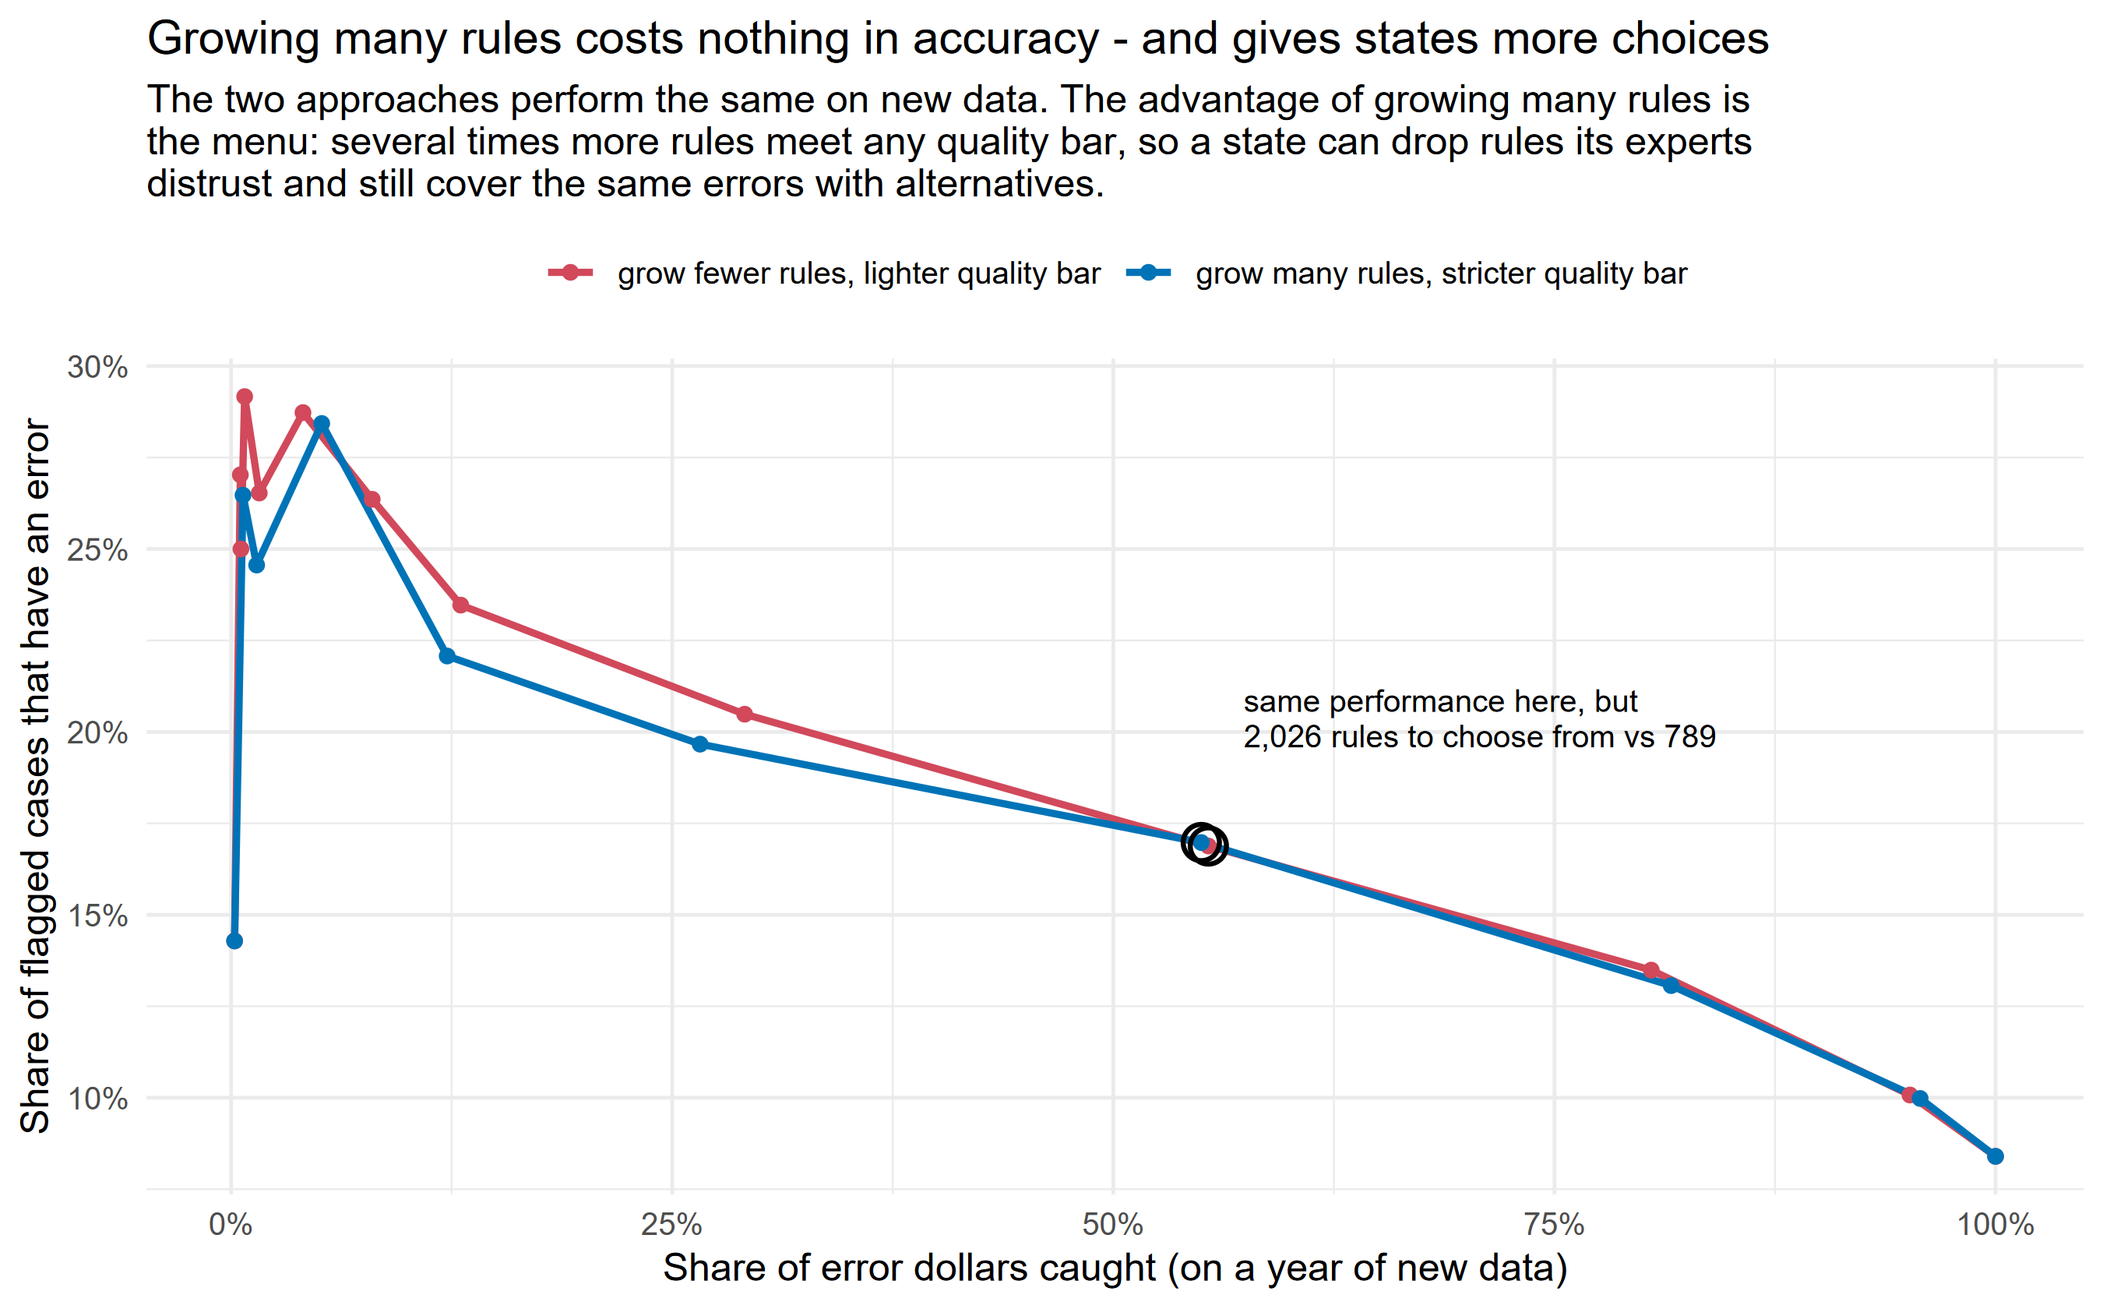
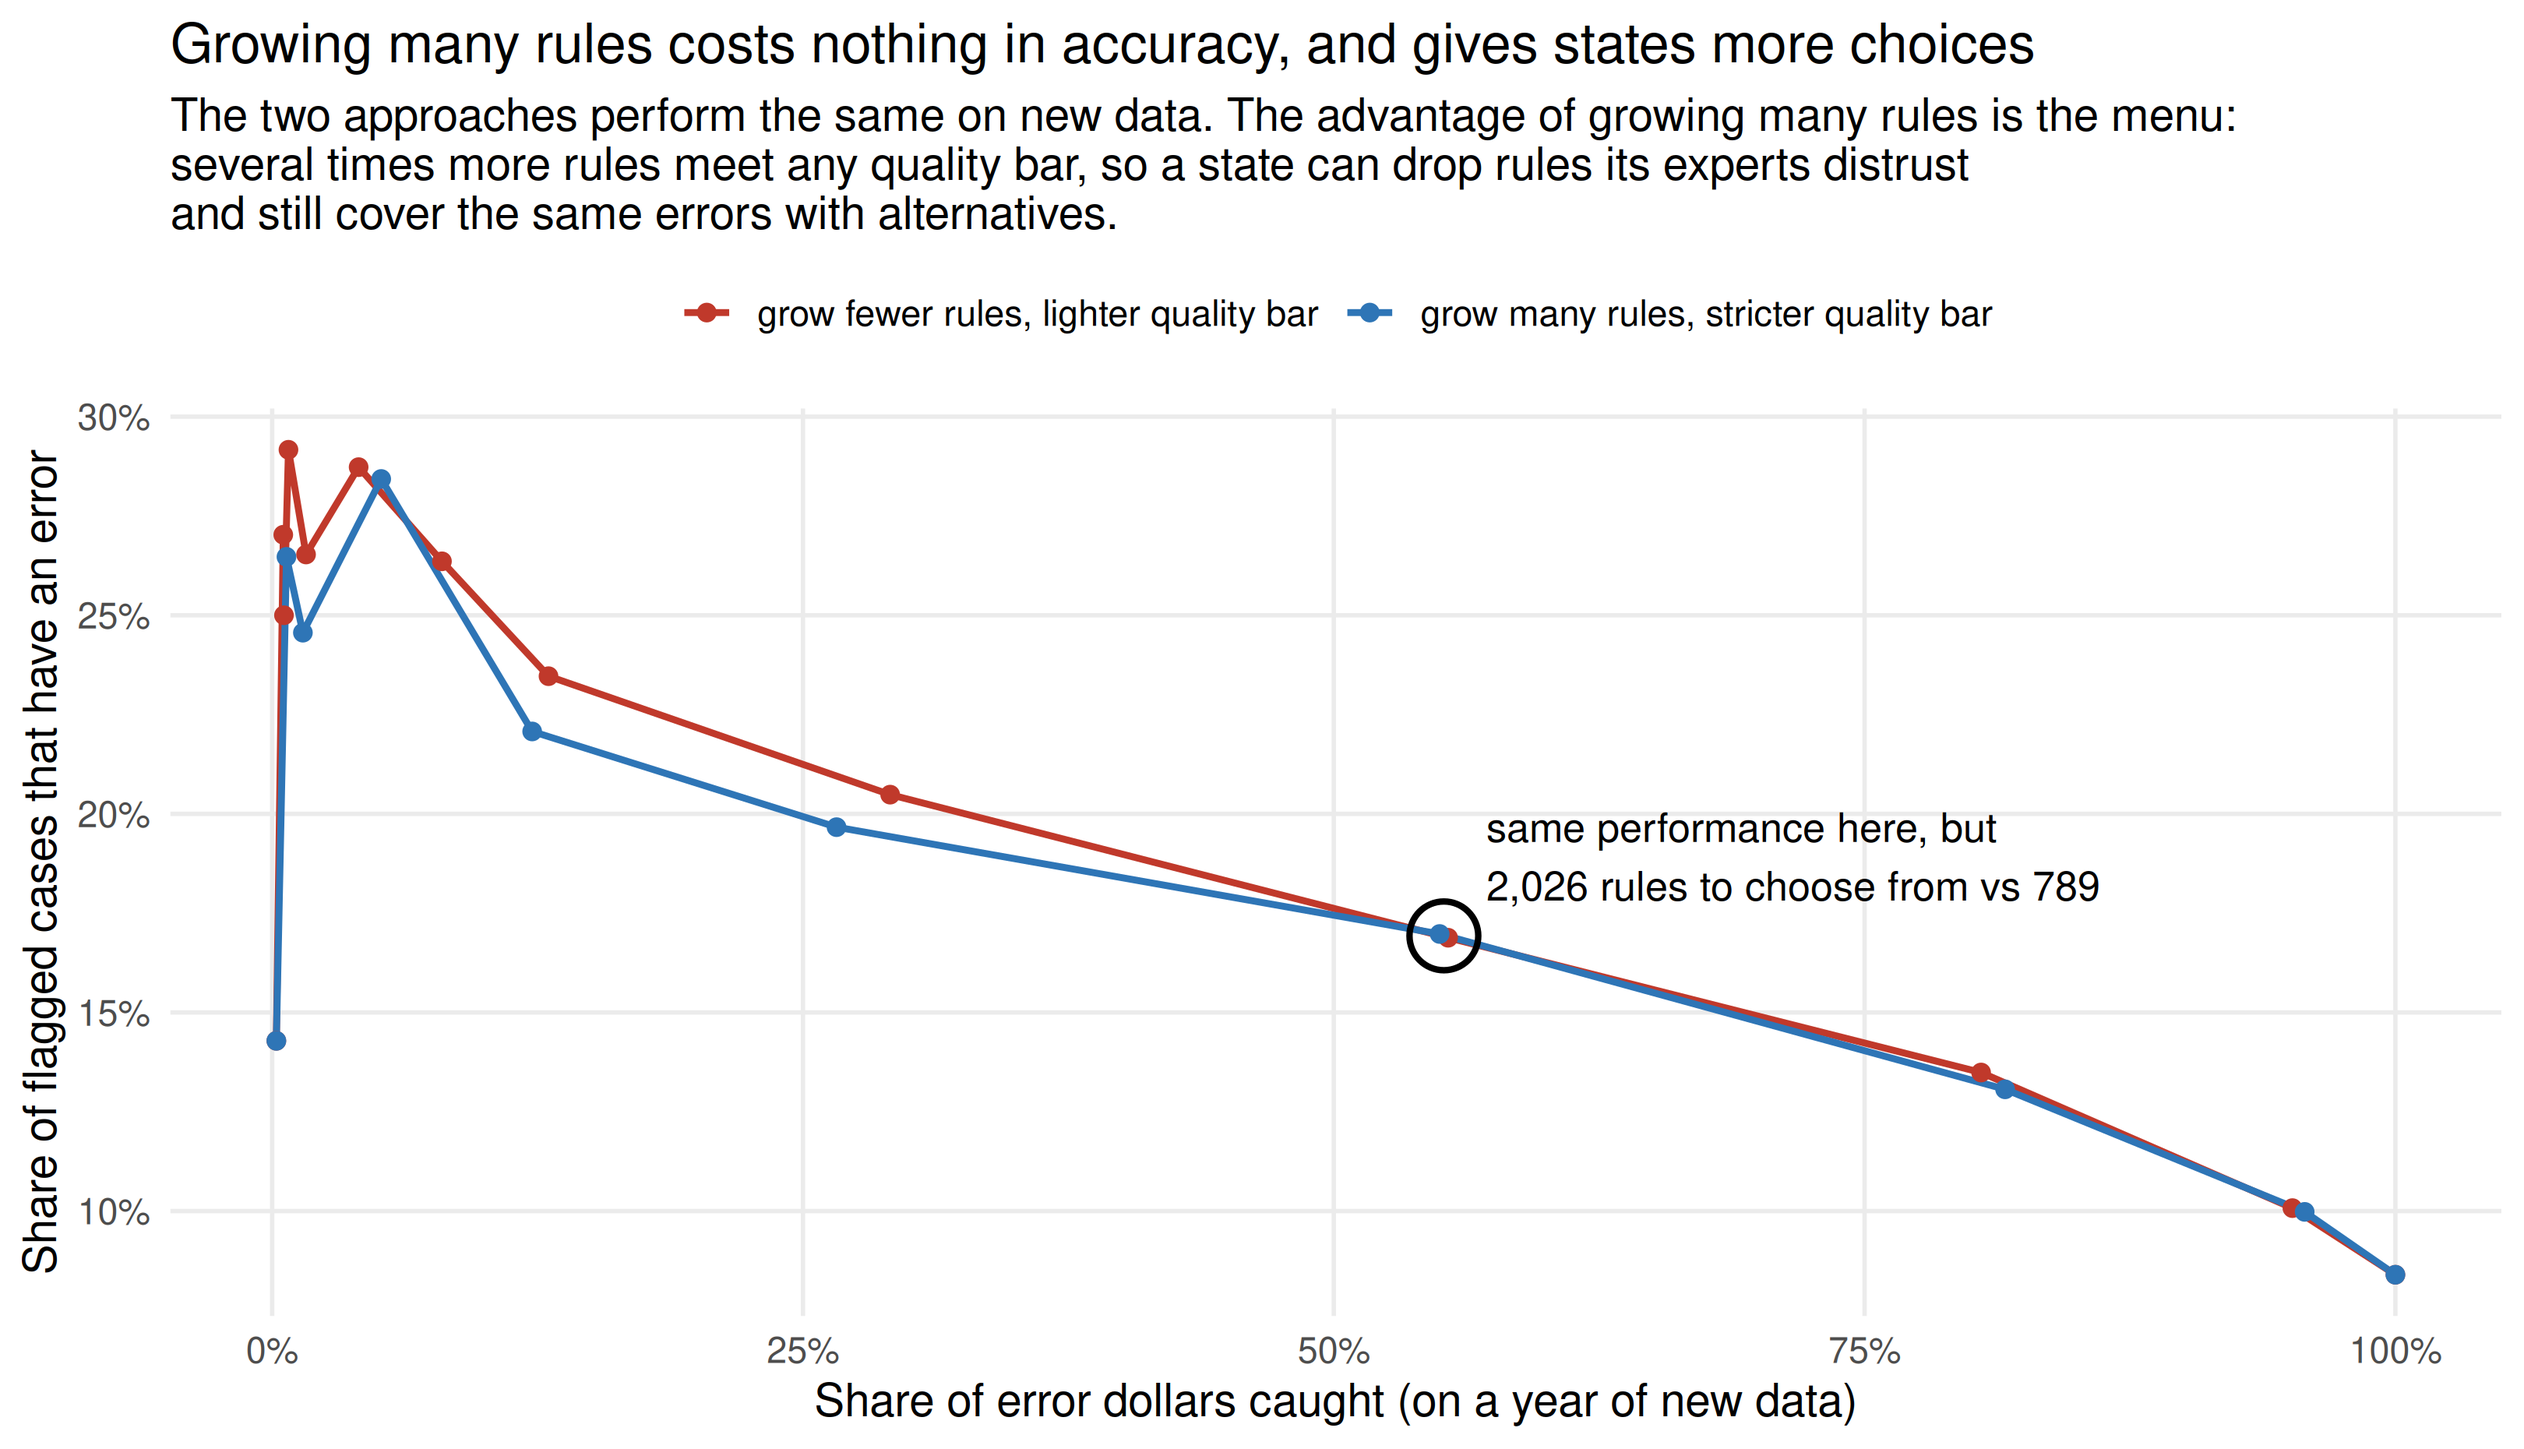
Figures: reconstruct committed generating scripts (mine_big rebuilt; esap frame-script)
The four conceptual data-figures were committed as PNGs only. Reconstruct generating
scripts so they are reproducible and drift-checkable:
- draw_mine_big_filter_stringently.R: rebuilds the figure from committed data
  (parameter_tuning_v2/v2_lcbz_sweeps.csv); reproduces it exactly (789 vs 2,026 rules)
  with the " - " title dash fixed. Regenerated PNG.
- draw_esap_error_mix.R: computes the error-type mix from reg_model_data.rds (not
  present here) so it reflects the current frame instead of the original's possibly
  stale 64/18/11/6 split; run it on a machine with the frame.
Not reconstructed (documented in deck_figure_critique.md): states_two_regimes (only
committed data is a superseded run that contradicts the original figure) and
winners_curse_raw_vs_lcb (decay data not committed) — both need the original scripts
or the frame.

Claude-Session: https://claude.ai/code/session_01HZ1vRhTML3j5hwacjyDhJQ

diff --git a/methods/deck_figure_critique.md b/methods/deck_figure_critique.md
@@ -64,8 +64,20 @@ number survived in the ladder, below).
 
 1. **` - ` dashes in figure titles/subtitles** are the same compression problem as the deck
    text. Sweep the committed figure scripts and convert them to spare punctuation.
-2. **Commit the missing figure scripts.** `winners_curse_raw_vs_lcb`, `states_two_regimes`,
-   `esap_error_mix`, and `mine_big_filter_stringently` have no committed generating script,
+2. **Commit the missing figure scripts.** These four were committed as PNG binaries only,
    so they cannot be regenerated or checked when a number changes — which is precisely how
-   the ladder kept a stale "43-81%". Committing them makes the figures reproducible and lets
-   `check_doc_consistency` (or a figure equivalent) guard them.
+   the ladder kept a stale "43-81%". Progress on reconstructing them:
+   - **`mine_big_filter_stringently`** — reconstructed as `draw_mine_big_filter_stringently.R`
+     from committed data (`parameter_tuning_v2/v2_lcbz_sweeps.csv`); reproduces the original
+     exactly (789 vs 2,026 rules), with the ` - ` title dash fixed. Done.
+   - **`esap_error_mix`** — reconstructed as `draw_esap_error_mix.R`, but it COMPUTES the mix
+     from `reg_model_data.rds` (not committed here), so it must be run on a machine with the
+     frame. This deliberately avoids hardcoding the original's 64/18/11/6 split, which
+     predates the 2026-07-07 rebuild and may be stale.
+   - **`states_two_regimes`** — NOT reconstructed: the only committed data
+     (`archive/state_rules_v2/state_union_summary.csv`) is a different, superseded run whose
+     story contradicts the original figure (it shows tuning helping 6/7 states; the original
+     shows it hurting 4). Rebuilding from it would misrepresent. Needs the original script,
+     or a fresh figure built on the current §14 deployment data.
+   - **`winners_curse_raw_vs_lcb`** — NOT reconstructed: the raw-vs-lower-bound decay is not
+     committed as a single sweep CSV. Needs the original script or the frame.
